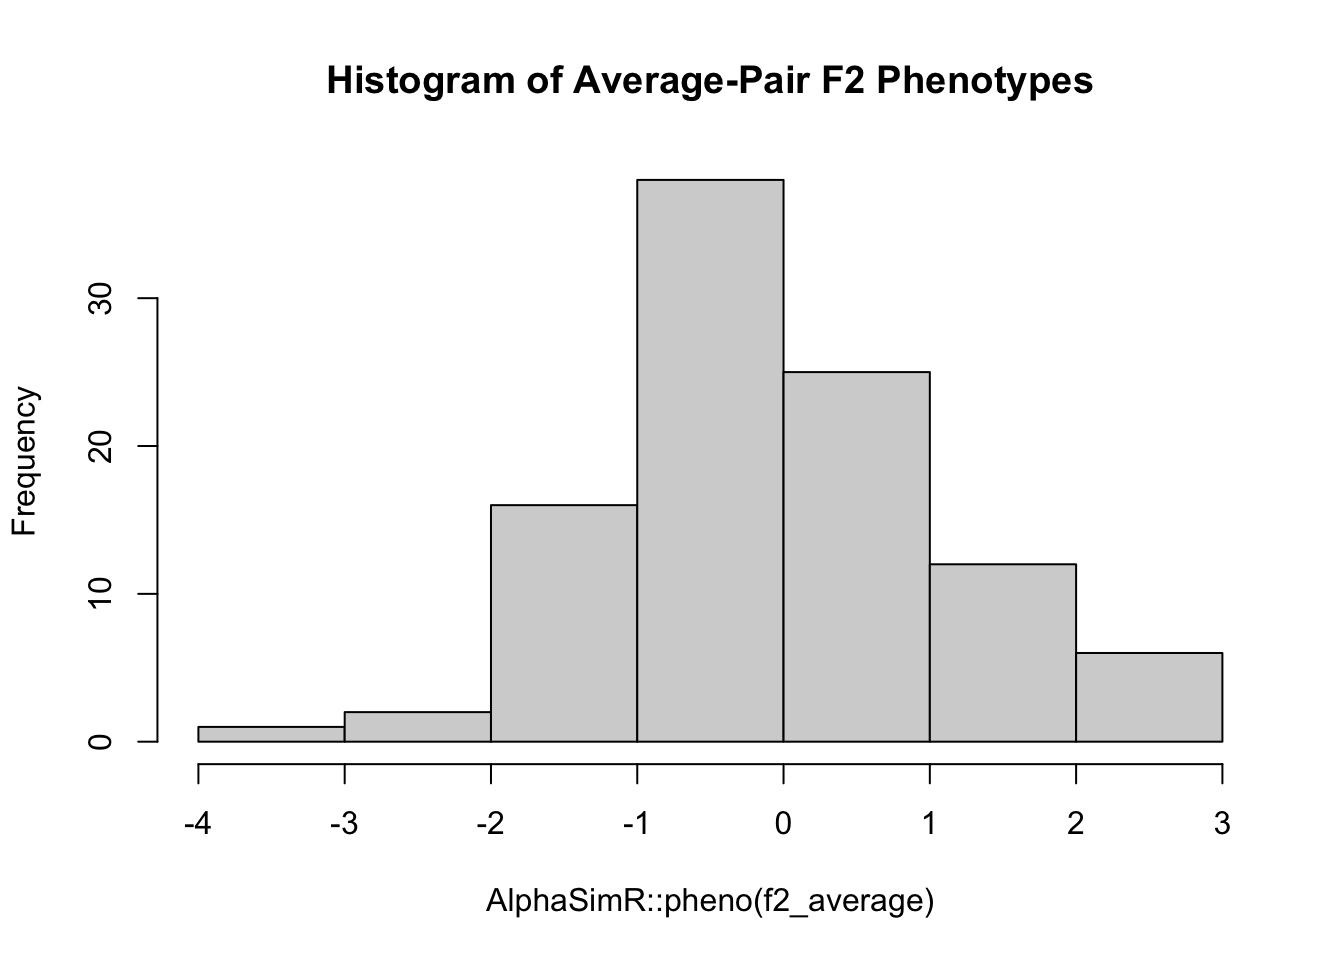
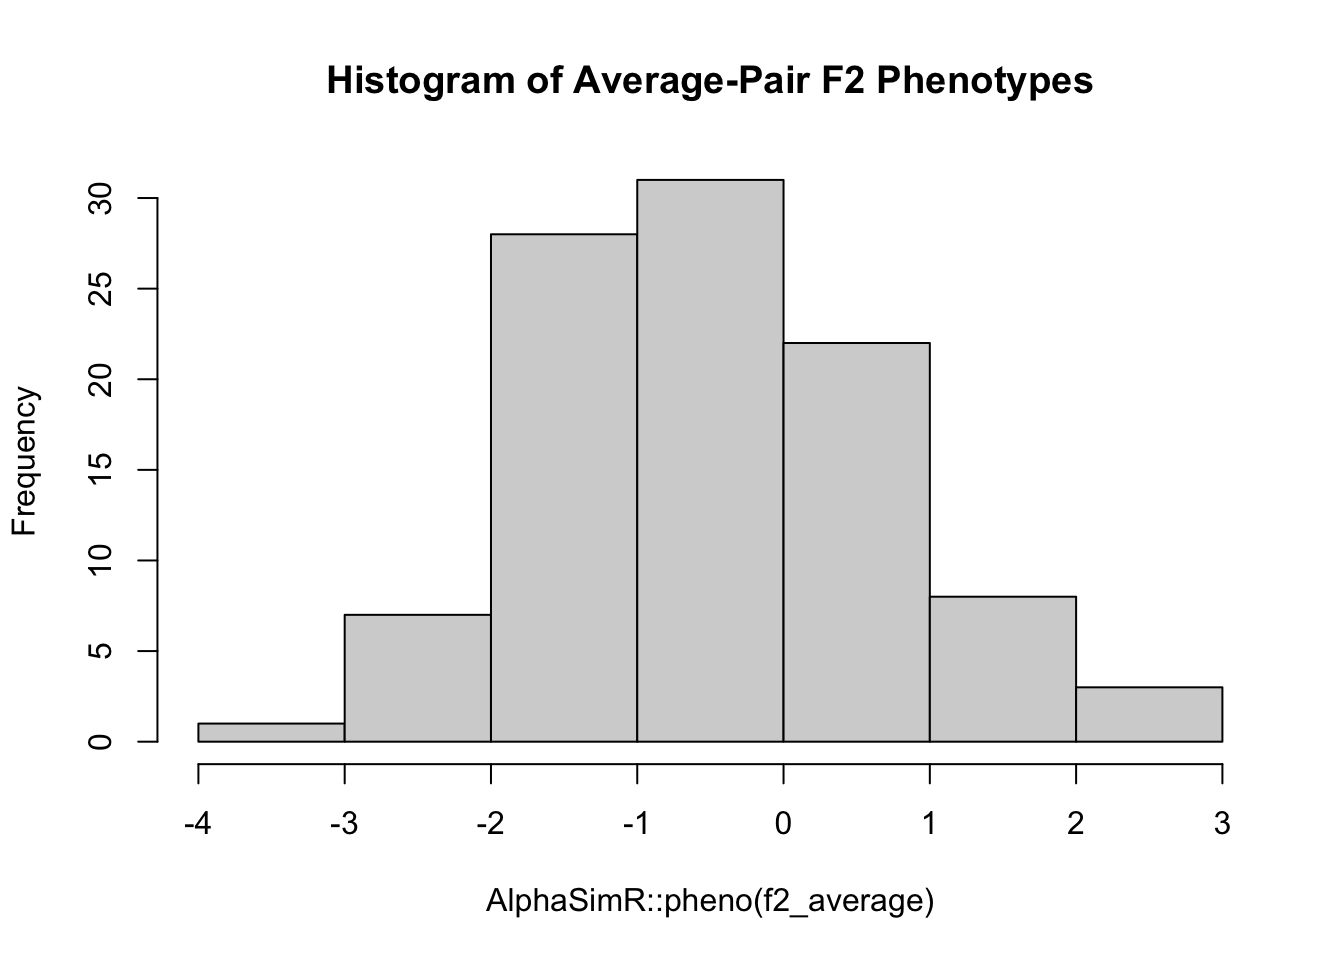
Build site.

diff --git a/docs/Lab2_ProgrammingAlphaSimR.html b/docs/Lab2_ProgrammingAlphaSimR.html
@@ -506,16 +506,16 @@ This reproducible <a href="http://rmarkdown.rstudio.com">R Markdown</a> analysis
 <div class="panel panel-default">
 <div class="panel-heading">
 <p class="panel-title">
-<a data-toggle="collapse" data-parent="#workflowr-checks" href="#strongRepositoryversionstrongahrefhttpsgithubcomjeanlucjLab220217170tree419397eb85586b8906e6e17c1bf3cf55e3f3bd45targetblank419397ea"> <span class="glyphicon glyphicon-ok text-success" aria-hidden="true"></span> <strong>Repository version:</strong> <a href="https://github.com/jeanlucj/Lab2_2021_7170/tree/419397eb85586b8906e6e17c1bf3cf55e3f3bd45" target="_blank">419397e</a> </a>
+<a data-toggle="collapse" data-parent="#workflowr-checks" href="#strongRepositoryversionstrongahrefhttpsgithubcomjeanlucjLab220217170treeaae7bf90a2788ae38f5840323328af932c858d9ctargetblankaae7bf9a"> <span class="glyphicon glyphicon-ok text-success" aria-hidden="true"></span> <strong>Repository version:</strong> <a href="https://github.com/jeanlucj/Lab2_2021_7170/tree/aae7bf90a2788ae38f5840323328af932c858d9c" target="_blank">aae7bf9</a> </a>
 </p>
 </div>
[2 lines of base64/hex data omitted]
 <div class="panel-body">
 <p>
 Great! You are using Git for version control. Tracking code development and connecting the code version to the results is critical for reproducibility.
 </p>
 <p>
-The results in this page were generated with repository version <a href="https://github.com/jeanlucj/Lab2_2021_7170/tree/419397eb85586b8906e6e17c1bf3cf55e3f3bd45" target="_blank">419397e</a>. See the <em>Past versions</em> tab to see a history of the changes made to the R Markdown and HTML files.
+The results in this page were generated with repository version <a href="https://github.com/jeanlucj/Lab2_2021_7170/tree/aae7bf90a2788ae38f5840323328af932c858d9c" target="_blank">aae7bf9</a>. See the <em>Past versions</em> tab to see a history of the changes made to the R Markdown and HTML files.
 </p>
 <p>
 Note that you need to be careful to ensure that all relevant files for the analysis have been committed to Git prior to generating the results (you can use <code>wflow_publish</code> or <code>wflow_git_commit</code>). workflowr only checks the R Markdown file, but you know if there are other scripts or data files that it depends on. Below is the status of the Git repository when the results were generated:
@@ -527,13 +527,8 @@ Ignored files:
     Ignored:    .Rproj.user/
     Ignored:    code/.DS_Store
 
-Untracked files:
-    Untracked:  output/QTLgenotypes.csv
-
 Unstaged changes:
     Modified:   README.md
-    Modified:   analysis/_site.yml
-    Modified:   code/addToREADME.R
 
 </code></pre>
 <p>
@@ -572,6 +567,23 @@ Message
 </tr>
 </thead>
 <tbody>
+<tr>
+<td>
+html
+</td>
+<td>
+<a href="https://rawcdn.githack.com/jeanlucj/Lab2_2021_7170/1de448c65e28ef40cd5019fd94c72f8459892ea7/docs/Lab2_ProgrammingAlphaSimR.html" target="_blank">1de448c</a>
+</td>
+<td>
+jeanlucj
+</td>
+<td>
+2021-02-10
+</td>
+<td>
+Build site.
+</td>
+</tr>
 <tr>
 <td>
 Rmd
@@ -818,7 +830,7 @@ str(founders)</code></pre>
   ..@ father : chr [1:100] &quot;0&quot; &quot;0&quot; &quot;0&quot; &quot;0&quot; ...
   ..@ sex    : chr [1:100] &quot;H&quot; &quot;H&quot; &quot;H&quot; &quot;H&quot; ...
   ..@ nTraits: int 1
-  ..@ gv     : num [1:100, 1] 0.206 0.609 -0.34 -0.749 0.752 ...
+  ..@ gv     : num [1:100, 1] 1.35 -0.2837 1.8165 0.2766 0.0726 ...
   ..@ pheno  : num [1:100, 1] NA NA NA NA NA NA NA NA NA NA ...
   ..@ ebv    : num[1:100, 0 ] 
   ..@ gxe    :List of 1
@@ -931,16 +943,16 @@ str(founders)</code></pre>
   ..@ ploidy : int 2
   ..@ nLoci  : int [1:10] 1000 1000 1000 1000 1000 1000 1000 1000 1000 1000
   ..@ geno   :List of 10
-  .. ..$ : raw [1:125, 1:2, 1:100] 77 32 81 48 ...
-  .. ..$ : raw [1:125, 1:2, 1:100] 5c fc 7d 0e ...
-  .. ..$ : raw [1:125, 1:2, 1:100] 03 e3 06 1a ...
-  .. ..$ : raw [1:125, 1:2, 1:100] 0a c2 18 c9 ...
-  .. ..$ : raw [1:125, 1:2, 1:100] 1c 7c 11 66 ...
-  .. ..$ : raw [1:125, 1:2, 1:100] 04 7b 69 5a ...
-  .. ..$ : raw [1:125, 1:2, 1:100] 54 7a 9c a0 ...
-  .. ..$ : raw [1:125, 1:2, 1:100] 84 39 03 a1 ...
-  .. ..$ : raw [1:125, 1:2, 1:100] b4 21 00 67 ...
-  .. ..$ : raw [1:125, 1:2, 1:100] 14 a0 1e 30 ...
+  .. ..$ : raw [1:125, 1:2, 1:100] 00 64 20 46 ...
+  .. ..$ : raw [1:125, 1:2, 1:100] 26 0d ee 0b ...
+  .. ..$ : raw [1:125, 1:2, 1:100] 22 25 00 c4 ...
+  .. ..$ : raw [1:125, 1:2, 1:100] 01 0d 43 20 ...
+  .. ..$ : raw [1:125, 1:2, 1:100] 07 42 1c 48 ...
+  .. ..$ : raw [1:125, 1:2, 1:100] 2f 4c 0a 02 ...
+  .. ..$ : raw [1:125, 1:2, 1:100] 9c 3e 03 00 ...
+  .. ..$ : raw [1:125, 1:2, 1:100] 17 3c d5 06 ...
+  .. ..$ : raw [1:125, 1:2, 1:100] d4 88 18 1a ...
+  .. ..$ : raw [1:125, 1:2, 1:100] 15 18 00 84 ...
   .. ..- attr(*, &quot;dim&quot;)= int [1:2] 10 1</code></pre>
 </div>
 <div id="population-information" class="section level3">
@@ -951,7 +963,7 @@ str(founders)</code></pre>
 testID &lt;- test@id
 firstInd &lt;- test[order(testID)[1]]
 print(testID)</code></pre>
-<pre><code>[1] &quot;11&quot; &quot;29&quot; &quot;98&quot;</code></pre>
+<pre><code>[1] &quot;63&quot; &quot;8&quot;  &quot;76&quot;</code></pre>
 <pre class="r"><code>print(firstInd)</code></pre>
 <pre><code>An object of class &quot;Pop&quot; 
 Ploidy: 2 
@@ -960,7 +972,7 @@ Chromosomes: 10
 Loci: 10000 
 Traits: 1 </code></pre>
 <pre class="r"><code>print(firstInd@id)</code></pre>
-<pre><code>[1] &quot;11&quot;</code></pre>
+<pre><code>[1] &quot;63&quot;</code></pre>
 </div>
 <div id="outbreak-of-variation" class="section level3">
 <h3>Outbreak of variation</h3>
@@ -983,7 +995,7 @@ cat(&quot;Expected fraction heterozygous&quot;, 1 / 2^nGenSelf, &quot;\n&quot;,
     &quot;Observed fraction heterozygous&quot;, fracHet, &quot;+/-&quot;, 
     round(2*sqrt(fracHet*(1-fracHet)/(nFounders*nChr*nQTLperChr)), 3), &quot;\n&quot;)</code></pre>
 <pre><code>Expected fraction heterozygous 0.125 
- Observed fraction heterozygous 0.0367 +/- 0.004 </code></pre>
+ Observed fraction heterozygous 0.0311 +/- 0.003 </code></pre>
 <blockquote>
 <p>What was wrong with my reasoning about the Expected fraction heterozygous?</p>
 </blockquote>
@@ -1008,7 +1020,7 @@ f1_extreme &lt;- AlphaSimR::makeCross(extremeInd, crossPlan)</code></pre>
 <pre class="r"><code>f2_average &lt;- AlphaSimR::self(f1_average, nProgeny=100)
 f2_average &lt;- AlphaSimR::setPheno(f2_average, varE=1)
 cat(&quot;Genotypic variance of F2 between average pair&quot;, round(AlphaSimR::varG(f2_average), 3))</code></pre>
-<pre><code>Genotypic variance of F2 between average pair 0.19</code></pre>
+<pre><code>Genotypic variance of F2 between average pair 0.356</code></pre>
 <pre class="r"><code>hist(AlphaSimR::pheno(f2_average), main=&quot;Histogram of Average-Pair F2 Phenotypes&quot;)</code></pre>
 <p><img src="figure/Lab2_ProgrammingAlphaSimR.Rmd/Make%20F2-1.png" width="672" style="display: block; margin: auto;" /></p>
 <p>
@@ -1033,6 +1045,17 @@ Date
 </tr>
 </thead>
 <tbody>
+<tr>
+<td>
+<a href="https://github.com/jeanlucj/Lab2_2021_7170/blob/1de448c65e28ef40cd5019fd94c72f8459892ea7/docs/figure/Lab2_ProgrammingAlphaSimR.Rmd/Make F2-1.png" target="_blank">1de448c</a>
+</td>
+<td>
+jeanlucj
+</td>
+<td>
+2021-02-10
+</td>
+</tr>
 <tr>
 <td>
 <a href="https://github.com/jeanlucj/Lab2_2021_7170/blob/bd5469e2d33499c9692012b6e9bb64b7fcdc58bc/docs/figure/Lab2_ProgrammingAlphaSimR.Rmd/Make F2-1.png" target="_blank">bd5469e</a>
@@ -1073,7 +1096,7 @@ jeanlucj
 <pre class="r"><code>f2_extreme &lt;- AlphaSimR::self(f1_extreme, nProgeny=100)
 f2_extreme &lt;- AlphaSimR::setPheno(f2_extreme, varE=1)
 cat(&quot;Genotypic variance of F2 between extreme pair&quot;, round(AlphaSimR::varG(f2_extreme), 3))</code></pre>
-<pre><code>Genotypic variance of F2 between extreme pair 0.598</code></pre>
+<pre><code>Genotypic variance of F2 between extreme pair 1.296</code></pre>
 <pre class="r"><code>hist(AlphaSimR::pheno(f2_extreme), main=&quot;Histogram of Extreme-Pair F2 Phenotypes&quot;)</code></pre>
 <p><img src="figure/Lab2_ProgrammingAlphaSimR.Rmd/Make%20F2-2.png" width="672" style="display: block; margin: auto;" /></p>
 <p>
@@ -1098,6 +1121,17 @@ Date
 </tr>
 </thead>
 <tbody>
+<tr>
+<td>
+<a href="https://github.com/jeanlucj/Lab2_2021_7170/blob/1de448c65e28ef40cd5019fd94c72f8459892ea7/docs/figure/Lab2_ProgrammingAlphaSimR.Rmd/Make F2-2.png" target="_blank">1de448c</a>
+</td>
+<td>
+jeanlucj
+</td>
+<td>
+2021-02-10
+</td>
+</tr>
 <tr>
 <td>
 <a href="https://github.com/jeanlucj/Lab2_2021_7170/blob/bd5469e2d33499c9692012b6e9bb64b7fcdc58bc/docs/figure/Lab2_ProgrammingAlphaSimR.Rmd/Make F2-2.png" target="_blank">bd5469e</a>
@@ -1143,7 +1177,7 @@ jeanlucj
 f1_extremeMany &lt;- AlphaSimR::makeCross(extremeInd, crossPlan)
 f1_extremeMany &lt;- AlphaSimR::setPheno(f1_extremeMany, varE=1)
 cat(&quot;Genotypic variance of F1 between extreme pair&quot;, round(AlphaSimR::varG(f1_extremeMany), 3))</code></pre>
-<pre><code>Genotypic variance of F1 between extreme pair 0.038</code></pre>
+<pre><code>Genotypic variance of F1 between extreme pair 0.049</code></pre>
 <pre class="r"><code>hist(AlphaSimR::pheno(f1_extremeMany), main=&quot;Histogram of Extreme-Pair *F1* Phenotypes&quot;)</code></pre>
 <p><img src="figure/Lab2_ProgrammingAlphaSimR.Rmd/Make%20many%20hybrids-1.png" width="672" style="display: block; margin: auto;" /></p>
 <p>
@@ -1168,6 +1202,17 @@ Date
 </tr>
 </thead>
 <tbody>
+<tr>
+<td>
+<a href="https://github.com/jeanlucj/Lab2_2021_7170/blob/1de448c65e28ef40cd5019fd94c72f8459892ea7/docs/figure/Lab2_ProgrammingAlphaSimR.Rmd/Make many hybrids-1.png" target="_blank">1de448c</a>
+</td>
+<td>
+jeanlucj
+</td>
+<td>
+2021-02-10
+</td>
+</tr>
 <tr>
 <td>
 <a href="https://github.com/jeanlucj/Lab2_2021_7170/blob/bd5469e2d33499c9692012b6e9bb64b7fcdc58bc/docs/figure/Lab2_ProgrammingAlphaSimR.Rmd/Make many hybrids-1.png" target="_blank">bd5469e</a>

diff --git a/docs/index.html b/docs/index.html
@@ -366,16 +366,16 @@ This reproducible <a href="http://rmarkdown.rstudio.com">R Markdown</a> analysis
 <div class="panel panel-default">
 <div class="panel-heading">
 <p class="panel-title">
-<a data-toggle="collapse" data-parent="#workflowr-checks" href="#strongRepositoryversionstrongahrefhttpsgithubcomjeanlucjLab220217170tree419397eb85586b8906e6e17c1bf3cf55e3f3bd45targetblank419397ea"> <span class="glyphicon glyphicon-ok text-success" aria-hidden="true"></span> <strong>Repository version:</strong> <a href="https://github.com/jeanlucj/Lab2_2021_7170/tree/419397eb85586b8906e6e17c1bf3cf55e3f3bd45" target="_blank">419397e</a> </a>
+<a data-toggle="collapse" data-parent="#workflowr-checks" href="#strongRepositoryversionstrongahrefhttpsgithubcomjeanlucjLab220217170treeaae7bf90a2788ae38f5840323328af932c858d9ctargetblankaae7bf9a"> <span class="glyphicon glyphicon-ok text-success" aria-hidden="true"></span> <strong>Repository version:</strong> <a href="https://github.com/jeanlucj/Lab2_2021_7170/tree/aae7bf90a2788ae38f5840323328af932c858d9c" target="_blank">aae7bf9</a> </a>
 </p>
 </div>
[2 lines of base64/hex data omitted]
 <div class="panel-body">
 <p>
 Great! You are using Git for version control. Tracking code development and connecting the code version to the results is critical for reproducibility.
 </p>
 <p>
-The results in this page were generated with repository version <a href="https://github.com/jeanlucj/Lab2_2021_7170/tree/419397eb85586b8906e6e17c1bf3cf55e3f3bd45" target="_blank">419397e</a>. See the <em>Past versions</em> tab to see a history of the changes made to the R Markdown and HTML files.
+The results in this page were generated with repository version <a href="https://github.com/jeanlucj/Lab2_2021_7170/tree/aae7bf90a2788ae38f5840323328af932c858d9c" target="_blank">aae7bf9</a>. See the <em>Past versions</em> tab to see a history of the changes made to the R Markdown and HTML files.
 </p>
 <p>
 Note that you need to be careful to ensure that all relevant files for the analysis have been committed to Git prior to generating the results (you can use <code>wflow_publish</code> or <code>wflow_git_commit</code>). workflowr only checks the R Markdown file, but you know if there are other scripts or data files that it depends on. Below is the status of the Git repository when the results were generated:
@@ -387,13 +387,9 @@ Ignored files:
     Ignored:    .Rproj.user/
     Ignored:    code/.DS_Store
 
-Untracked files:
-    Untracked:  output/QTLgenotypes.csv
-
 Unstaged changes:
     Modified:   README.md
-    Modified:   analysis/_site.yml
-    Modified:   code/addToREADME.R
+    Modified:   output/QTLgenotypes.csv
 
 </code></pre>
 <p>
@@ -432,6 +428,23 @@ Message
 </tr>
 </thead>
 <tbody>
+<tr>
+<td>
+html
+</td>
+<td>
+<a href="https://rawcdn.githack.com/jeanlucj/Lab2_2021_7170/1de448c65e28ef40cd5019fd94c72f8459892ea7/docs/index.html" target="_blank">1de448c</a>
+</td>
+<td>
+jeanlucj
+</td>
+<td>
+2021-02-10
+</td>
+<td>
+Build site.
+</td>
+</tr>
 <tr>
 <td>
 html

diff --git a/docs/license.html b/docs/license.html
@@ -366,16 +366,16 @@ This reproducible <a href="http://rmarkdown.rstudio.com">R Markdown</a> analysis
 <div class="panel panel-default">
 <div class="panel-heading">
 <p class="panel-title">
-<a data-toggle="collapse" data-parent="#workflowr-checks" href="#strongRepositoryversionstrongahrefhttpsgithubcomjeanlucjLab220217170tree419397eb85586b8906e6e17c1bf3cf55e3f3bd45targetblank419397ea"> <span class="glyphicon glyphicon-ok text-success" aria-hidden="true"></span> <strong>Repository version:</strong> <a href="https://github.com/jeanlucj/Lab2_2021_7170/tree/419397eb85586b8906e6e17c1bf3cf55e3f3bd45" target="_blank">419397e</a> </a>
+<a data-toggle="collapse" data-parent="#workflowr-checks" href="#strongRepositoryversionstrongahrefhttpsgithubcomjeanlucjLab220217170treeaae7bf90a2788ae38f5840323328af932c858d9ctargetblankaae7bf9a"> <span class="glyphicon glyphicon-ok text-success" aria-hidden="true"></span> <strong>Repository version:</strong> <a href="https://github.com/jeanlucj/Lab2_2021_7170/tree/aae7bf90a2788ae38f5840323328af932c858d9c" target="_blank">aae7bf9</a> </a>
 </p>
 </div>
[2 lines of base64/hex data omitted]
 <div class="panel-body">
 <p>
 Great! You are using Git for version control. Tracking code development and connecting the code version to the results is critical for reproducibility.
 </p>
 <p>
-The results in this page were generated with repository version <a href="https://github.com/jeanlucj/Lab2_2021_7170/tree/419397eb85586b8906e6e17c1bf3cf55e3f3bd45" target="_blank">419397e</a>. See the <em>Past versions</em> tab to see a history of the changes made to the R Markdown and HTML files.
+The results in this page were generated with repository version <a href="https://github.com/jeanlucj/Lab2_2021_7170/tree/aae7bf90a2788ae38f5840323328af932c858d9c" target="_blank">aae7bf9</a>. See the <em>Past versions</em> tab to see a history of the changes made to the R Markdown and HTML files.
 </p>
 <p>
 Note that you need to be careful to ensure that all relevant files for the analysis have been committed to Git prior to generating the results (you can use <code>wflow_publish</code> or <code>wflow_git_commit</code>). workflowr only checks the R Markdown file, but you know if there are other scripts or data files that it depends on. Below is the status of the Git repository when the results were generated:
@@ -387,13 +387,8 @@ Ignored files:
     Ignored:    .Rproj.user/
     Ignored:    code/.DS_Store
 
-Untracked files:
-    Untracked:  output/QTLgenotypes.csv
-
 Unstaged changes:
     Modified:   README.md
-    Modified:   analysis/_site.yml
-    Modified:   code/addToREADME.R
 
 </code></pre>
 <p>
@@ -432,6 +427,23 @@ Message
 </tr>
 </thead>
 <tbody>
+<tr>
+<td>
+html
+</td>
+<td>
+<a href="https://rawcdn.githack.com/jeanlucj/Lab2_2021_7170/1de448c65e28ef40cd5019fd94c72f8459892ea7/docs/license.html" target="_blank">1de448c</a>
+</td>
+<td>
+jeanlucj
+</td>
+<td>
+2021-02-10
+</td>
+<td>
+Build site.
+</td>
+</tr>
 <tr>
 <td>
 html

diff --git a/docs/about.html b/docs/about.html
@@ -366,16 +366,16 @@ This reproducible <a href="http://rmarkdown.rstudio.com">R Markdown</a> analysis
 <div class="panel panel-default">
 <div class="panel-heading">
 <p class="panel-title">
-<a data-toggle="collapse" data-parent="#workflowr-checks" href="#strongRepositoryversionstrongahrefhttpsgithubcomjeanlucjLab220217170tree419397eb85586b8906e6e17c1bf3cf55e3f3bd45targetblank419397ea"> <span class="glyphicon glyphicon-ok text-success" aria-hidden="true"></span> <strong>Repository version:</strong> <a href="https://github.com/jeanlucj/Lab2_2021_7170/tree/419397eb85586b8906e6e17c1bf3cf55e3f3bd45" target="_blank">419397e</a> </a>
+<a data-toggle="collapse" data-parent="#workflowr-checks" href="#strongRepositoryversionstrongahrefhttpsgithubcomjeanlucjLab220217170treeaae7bf90a2788ae38f5840323328af932c858d9ctargetblankaae7bf9a"> <span class="glyphicon glyphicon-ok text-success" aria-hidden="true"></span> <strong>Repository version:</strong> <a href="https://github.com/jeanlucj/Lab2_2021_7170/tree/aae7bf90a2788ae38f5840323328af932c858d9c" target="_blank">aae7bf9</a> </a>
 </p>
 </div>
[2 lines of base64/hex data omitted]
 <div class="panel-body">
 <p>
 Great! You are using Git for version control. Tracking code development and connecting the code version to the results is critical for reproducibility.
 </p>
 <p>
-The results in this page were generated with repository version <a href="https://github.com/jeanlucj/Lab2_2021_7170/tree/419397eb85586b8906e6e17c1bf3cf55e3f3bd45" target="_blank">419397e</a>. See the <em>Past versions</em> tab to see a history of the changes made to the R Markdown and HTML files.
+The results in this page were generated with repository version <a href="https://github.com/jeanlucj/Lab2_2021_7170/tree/aae7bf90a2788ae38f5840323328af932c858d9c" target="_blank">aae7bf9</a>. See the <em>Past versions</em> tab to see a history of the changes made to the R Markdown and HTML files.
 </p>
 <p>
 Note that you need to be careful to ensure that all relevant files for the analysis have been committed to Git prior to generating the results (you can use <code>wflow_publish</code> or <code>wflow_git_commit</code>). workflowr only checks the R Markdown file, but you know if there are other scripts or data files that it depends on. Below is the status of the Git repository when the results were generated:
@@ -387,13 +387,8 @@ Ignored files:
     Ignored:    .Rproj.user/
     Ignored:    code/.DS_Store
 
-Untracked files:
-    Untracked:  output/QTLgenotypes.csv
-
 Unstaged changes:
     Modified:   README.md
-    Modified:   analysis/_site.yml
-    Modified:   code/addToREADME.R
 
 </code></pre>
 <p>
@@ -432,6 +427,23 @@ Message
 </tr>
 </thead>
 <tbody>
+<tr>
+<td>
+html
+</td>
+<td>
+<a href="https://rawcdn.githack.com/jeanlucj/Lab2_2021_7170/1de448c65e28ef40cd5019fd94c72f8459892ea7/docs/about.html" target="_blank">1de448c</a>
+</td>
+<td>
+jeanlucj
+</td>
+<td>
+2021-02-10
+</td>
+<td>
+Build site.
+</td>
+</tr>
 <tr>
 <td>
 html
